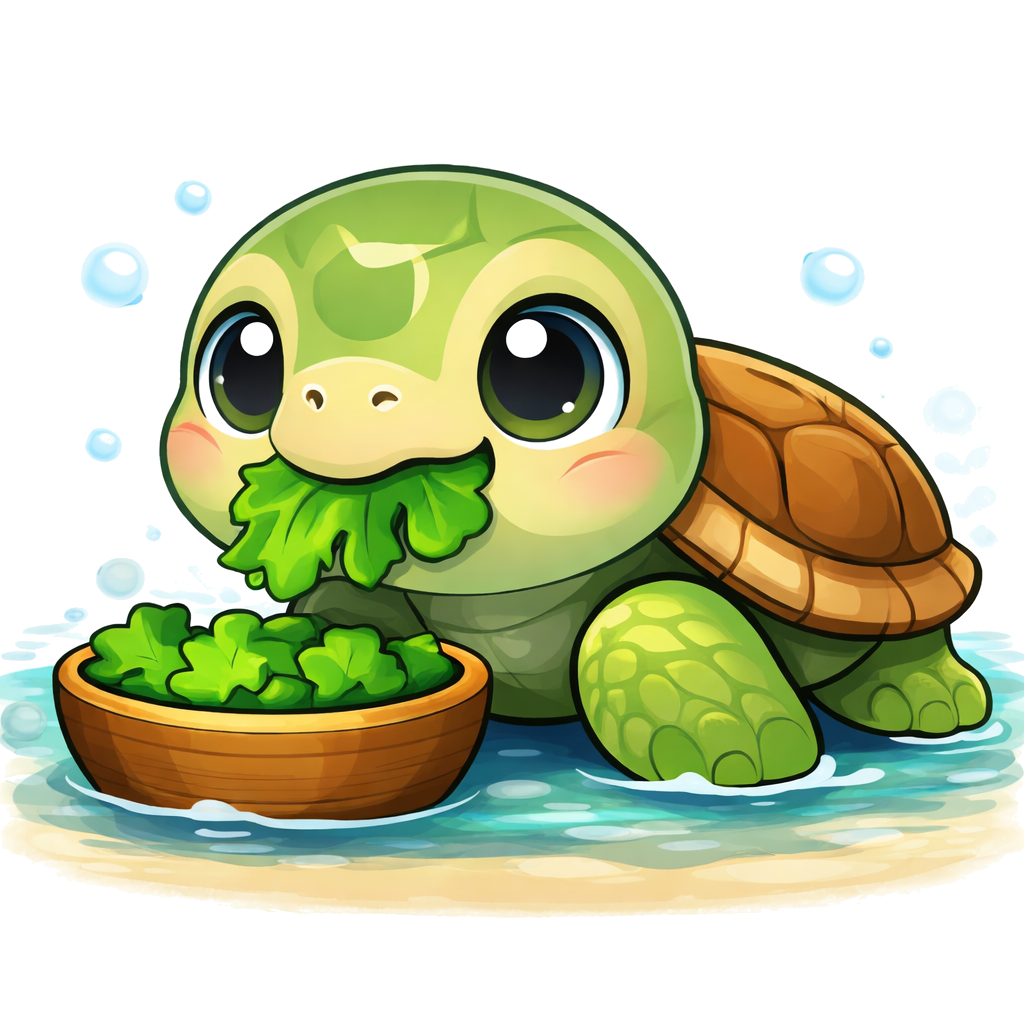
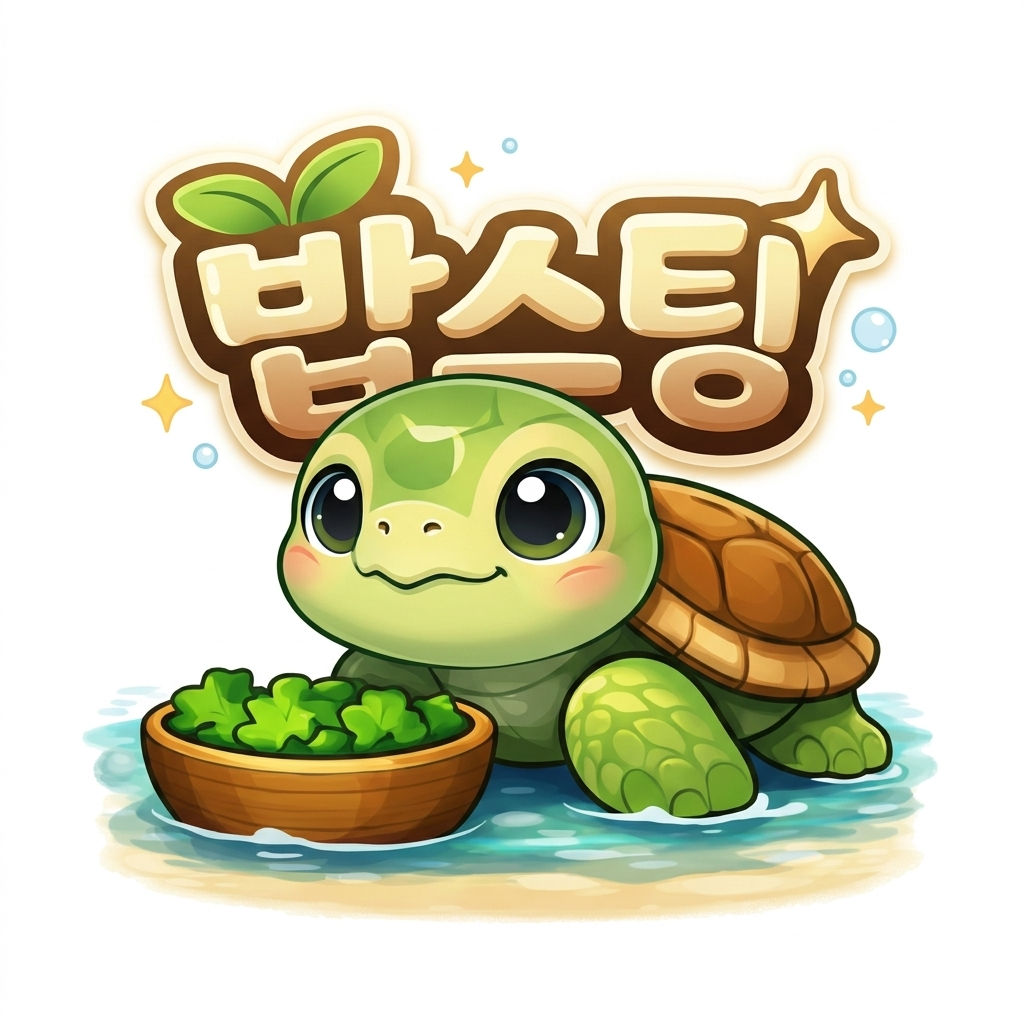
밥스팅 로고변경 / 로그인유무판단

diff --git a/apps/mobile/src/features/auth/screens/AuthCallbackScreen.tsx b/apps/mobile/src/features/auth/screens/AuthCallbackScreen.tsx
@@ -2,6 +2,7 @@ import React, { useEffect, useState } from 'react';
 import { ActivityIndicator, Platform, StyleSheet, Text, View } from 'react-native';
 
 import * as Linking from 'expo-linking';
+import { useNavigation } from '@react-navigation/native';
 
 import { supabase } from '../../../../lib/supabase';
 
@@ -13,6 +14,7 @@ function getQueryParam(url: string, key: string) {
 export function AuthCallbackScreen() {
   const [message, setMessage] = useState('로그인 처리 중…');
   const urlFromLinking = Linking.useURL();
+  const navigation = useNavigation();
 
   useEffect(() => {
     const effectiveUrl =
@@ -20,18 +22,21 @@ export function AuthCallbackScreen() {
 
     if (!effectiveUrl) {
       setMessage('콜백 URL을 찾지 못했어요.');
+      if (Platform.OS !== 'web') navigation.reset({ index: 0, routes: [{ name: 'Login' as never }] });
       return;
     }
 
     const errorDescription = getQueryParam(effectiveUrl, 'error_description');
     if (errorDescription) {
       setMessage(errorDescription);
+      if (Platform.OS !== 'web') navigation.reset({ index: 0, routes: [{ name: 'Login' as never }] });
       return;
     }
 
     const code = getQueryParam(effectiveUrl, 'code');
     if (!code) {
       setMessage('인증 코드가 없어요.');
+      if (Platform.OS !== 'web') navigation.reset({ index: 0, routes: [{ name: 'Login' as never }] });
       return;
     }
 
@@ -50,11 +55,14 @@ export function AuthCallbackScreen() {
           } catch {
             // ignore
           }
+        } else {
+          navigation.reset({ index: 0, routes: [{ name: 'Home' as never }] });
         }
       })
       .catch((e: unknown) => {
         const msg = e instanceof Error ? e.message : '세션 교환에 실패했어요.';
         setMessage(msg);
+        if (Platform.OS !== 'web') navigation.reset({ index: 0, routes: [{ name: 'Login' as never }] });
       });
   }, [urlFromLinking]);
 

diff --git a/apps/mobile/src/navigation/AppNavigator.tsx b/apps/mobile/src/navigation/AppNavigator.tsx
@@ -42,13 +42,13 @@ export function AppNavigator() {
 
   return (
     <NavigationContainer linking={linking}>
-      <Stack.Navigator>
-        <Stack.Screen name="AuthCallback" component={AuthCallbackScreen} options={{ headerShown: false }} />
+      <Stack.Navigator initialRouteName={session ? 'Home' : 'Login'}>
         {session ? (
           <Stack.Screen name="Home" component={HomeScreen} options={{ headerShown: false }} />
         ) : (
           <Stack.Screen name="Login" component={LoginScreen} options={{ headerShown: false }} />
         )}
+        <Stack.Screen name="AuthCallback" component={AuthCallbackScreen} options={{ headerShown: false }} />
       </Stack.Navigator>
     </NavigationContainer>
   );
